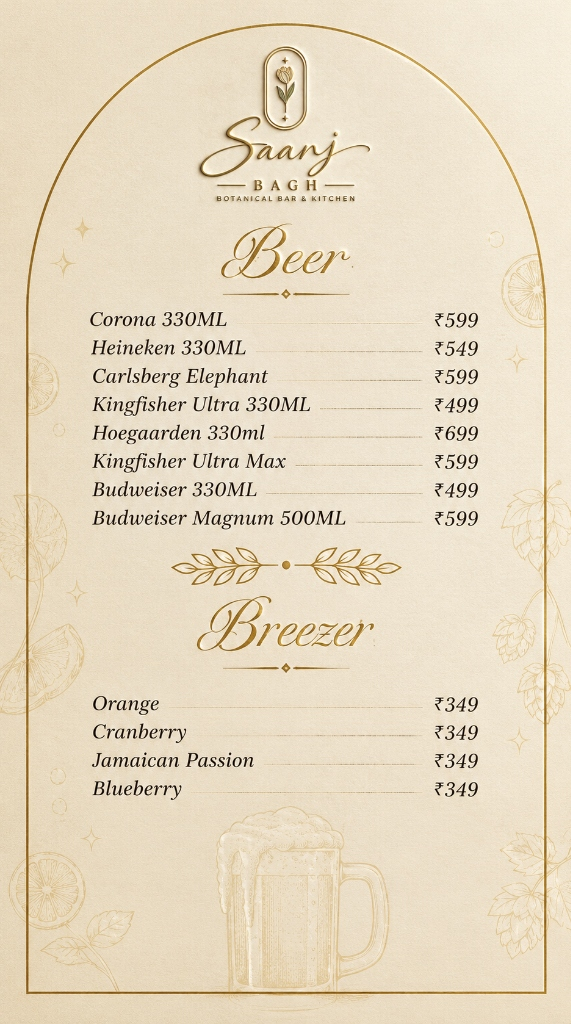
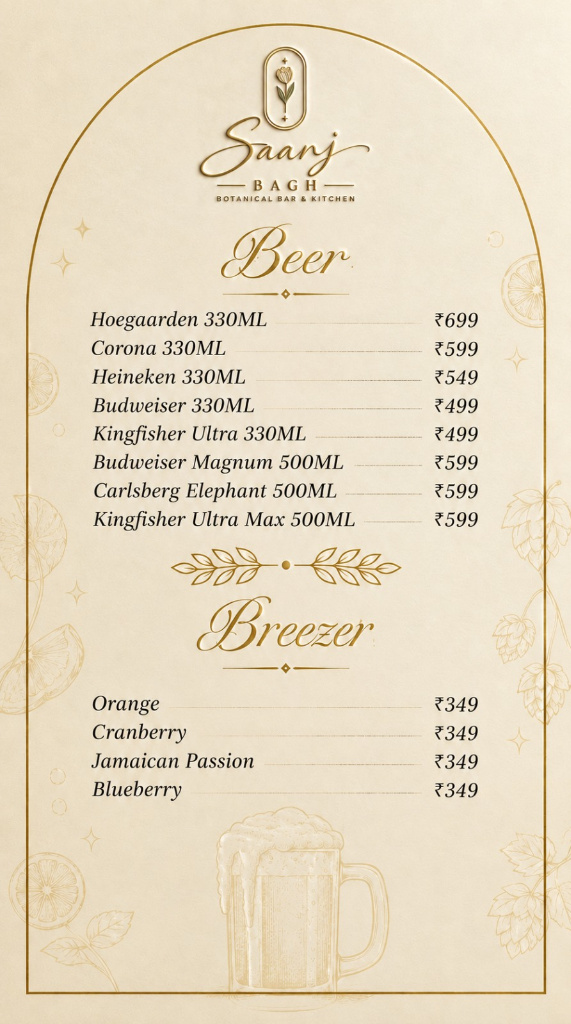
Update Bar Menu last page (Beer & Breezer) with reordered beers and 500ml sizing

diff --git a/index.html b/index.html
@@ -317,7 +317,7 @@
              ====================================================== -->
         <div class="book-layer bar-layer bar-beer-breezer-layer" id="barBeerBreezerLayer" aria-label="Beer & Breezer Menu">
           <img 
-            src="assets/images/bar-beer-breezer.jpg?v=20261027a" 
+            src="assets/images/bar-beer-breezer.jpg?v=20261027c" 
             alt="Saanj Bagh — Beer & Breezer Menu" 
             class="menu-artwork-img bar-parchment-img"
             id="barBeerBreezerArtwork"
@@ -1316,9 +1316,9 @@
       <article><p>Bacardi White / Old Monk Rum (30ml) — ₹249</p></article>
       <article><p>Sula Sauvignon Blanc / Zinfandel / Shiraz Cabernet (150ml) — ₹599</p></article>
       <article><p>Jacob's Creek Chardonnay / Shiraz (150ml) — ₹749</p></article>
-      <article><p>Corona 330ml / Heineken 330ml / Carlsberg Elephant — ₹549 - ₹599</p></article>
-      <article><p>Kingfisher Ultra / Ultra Max / Hoegaarden 330ml — ₹499 - ₹699</p></article>
-      <article><p>Budweiser 330ml / Magnum 500ml — ₹499 / ₹599</p></article>
+      <article><p>Hoegaarden 330ml / Corona 330ml / Heineken 330ml — ₹549 - ₹699</p></article>
+      <article><p>Budweiser 330ml / Kingfisher Ultra 330ml — ₹499</p></article>
+      <article><p>Budweiser Magnum 500ml / Carlsberg Elephant 500ml / Kingfisher Ultra Max 500ml — ₹599</p></article>
       <article><p>Breezer Orange / Cranberry / Jamaican Passion / Blueberry — ₹349</p></article>
     </section>
 

diff --git a/app.js b/app.js
@@ -155,7 +155,7 @@ document.addEventListener('DOMContentLoaded', () => {
     { title: 'TEQUILA & GIN', src: 'assets/images/bar-tequila-gin.jpg', alt: 'Saanj Bagh — Tequila & Gin Menu' },
     { title: 'VODKA, BRANDY, LIQUEUR & RUM', src: 'assets/images/bar-vodka-rum.jpg', alt: 'Saanj Bagh — Vodka, Brandy, Liqueur & Rum Menu' },
     { title: 'WINE SELECTION', src: 'assets/images/bar-wine.jpg', alt: 'Saanj Bagh — Wine Selection Menu' },
-    { title: 'BEER & BREEZER', src: 'assets/images/bar-beer-breezer.jpg?v=20261027a', alt: 'Saanj Bagh — Beer & Breezer Menu' }
+    { title: 'BEER & BREEZER', src: 'assets/images/bar-beer-breezer.jpg?v=20261027c', alt: 'Saanj Bagh — Beer & Breezer Menu' }
   ];
 
   const COCKTAIL_MENU_PAGES = [
@@ -1116,7 +1116,7 @@ document.addEventListener('DOMContentLoaded', () => {
     'assets/images/bar-tequila-gin.jpg',
     'assets/images/bar-vodka-rum.jpg',
     'assets/images/bar-wine.jpg',
-    'assets/images/bar-beer-breezer.jpg?v=20261027a',
+    'assets/images/bar-beer-breezer.jpg?v=20261027c',
     'assets/images/cocktail-1-signature.jpg',
     'assets/images/cocktail-2-tequila-whisky.jpg',
     'assets/images/cocktail-3-gin.jpg',
